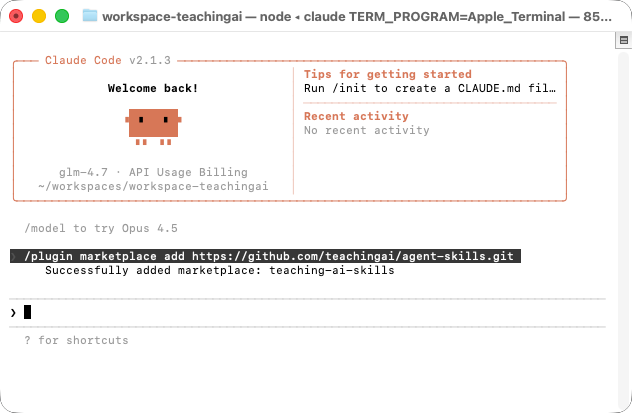
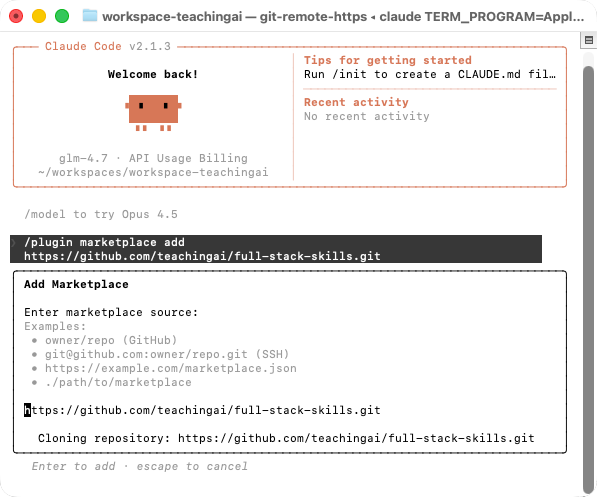
docs(readme): 更新安装成功截图和图片引用
- 添加了安装成功的描述文字
- 新增了安装成功后的界面截图
- 将原来的教学AI技能安装图片替换为开发技能前端安装图片

Changed region(s): [[0.0, 0.0, 1.0, 1.0], [0.0, 0.9879, 0.0302, 1.0]]

diff --git a/README.md b/README.md
@@ -64,6 +64,10 @@ Skills 是由说明、脚本和资源组成的文件夹，Claude 会按需动态
 
 ![add_marketplace.png](./media/add_marketplace.png)
 
+安装成功！
+
+![add_marketplace_success.png](media/add_marketplace_success.png)
+
 或者使用简写形式：
 
 ```
@@ -104,7 +108,7 @@ Skills 是由说明、脚本和资源组成的文件夹，Claude 会按需动态
 /plugin install utility-skills@full-stack-skills
 ```
 
-![install-teaching-ai-skills.png](media/install-teaching-ai-skills.png)
+![install-development-skills-frontend.png](media/install-development-skills-frontend.png)
 
 #### 3. 使用技能
 
